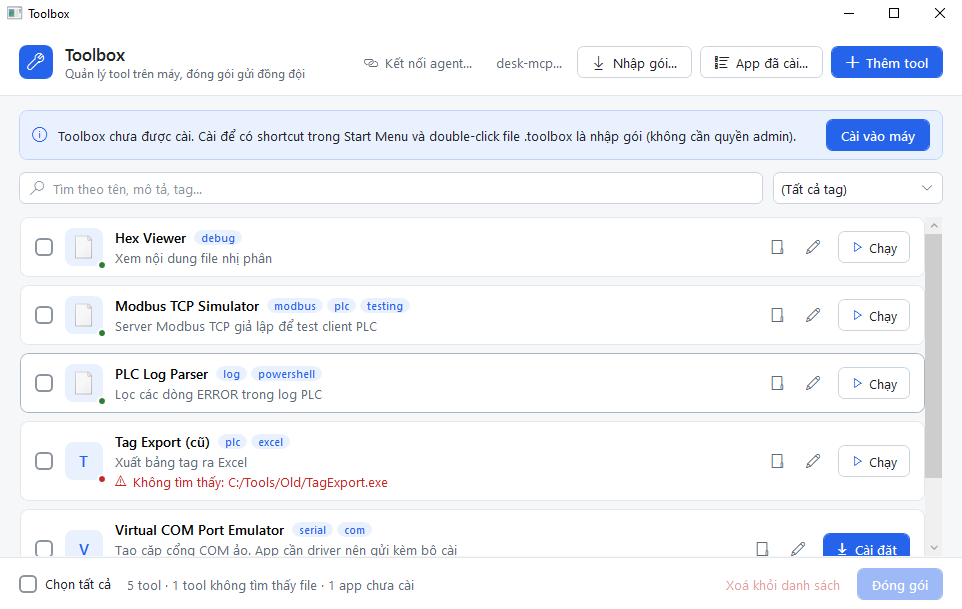
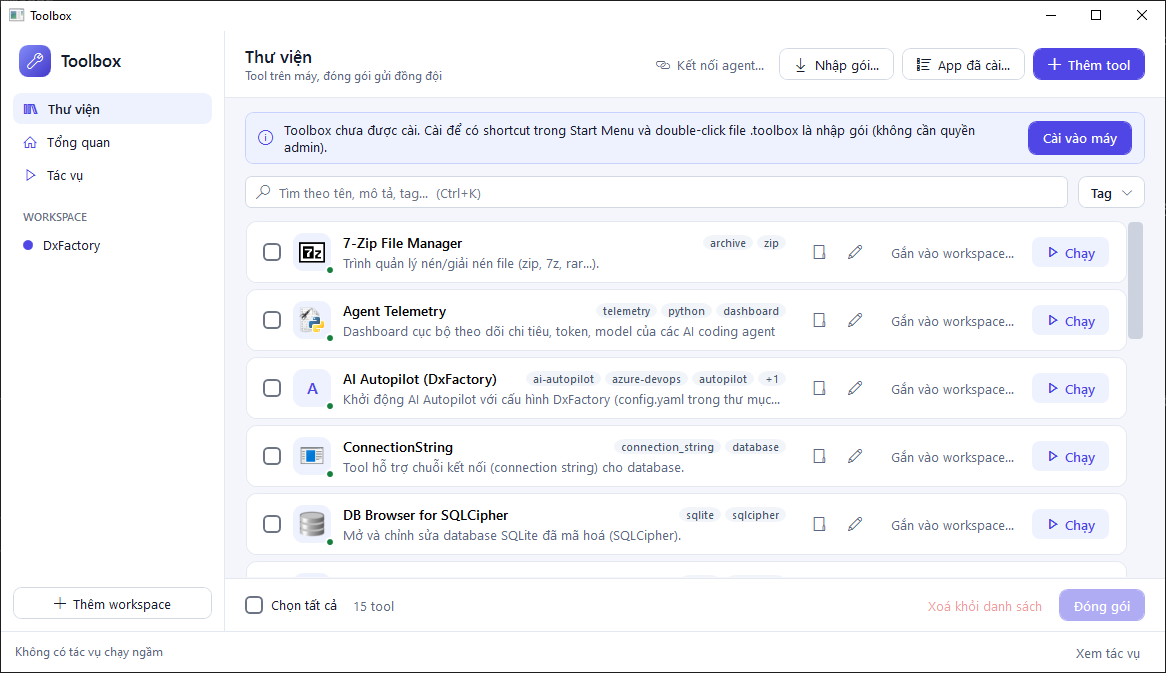
docs: update README with workspace and screenshots
- Document workspaces, workspace MCP tools and data files
- Refresh the main-window screenshot; add workspace and overview
- Correct the test count and exe size; note untested GUI flows

diff --git a/README.md b/README.md
@@ -10,7 +10,7 @@
 
 Tool thường nằm rải rác: phần mềm trong `Program Files`, bản tải về trong `Downloads`, script do agent tạo. Bạn phải nhớ đường dẫn mới dùng được, và gửi cho đồng đội thì rất phiền. Toolbox gom tất cả vào một danh sách. Toolbox không sửa file gốc của tool, và không bao giờ xoá file gốc. Xoá một tool khỏi danh sách chỉ là xoá một dòng trong `tools.json`.
 
-Toolbox là một file `Toolbox.exe` khoảng 150 KB, viết bằng WPF trên .NET Framework 4.8 có sẵn trong Windows. Người dùng không phải cài thêm gì để chạy.
+Toolbox là một file `Toolbox.exe` khoảng 375 KB, viết bằng WPF trên .NET Framework 4.8 có sẵn trong Windows. Người dùng không phải cài thêm gì để chạy.
 
 ---
 
@@ -40,9 +40,12 @@ Toolbox là một file `Toolbox.exe` khoảng 150 KB, viết bằng WPF trên .N
 | **Nhập gói** | Bấm **Nhập gói**, kéo thả, hoặc double-click file `.toolbox`. Chọn tool cần nhập, xử lý trùng `id` (thay thế, giữ cả hai, hoặc bỏ qua). |
 | | Chặn file có đường dẫn thoát ra ngoài thư mục đích (zip-slip). Cảnh báo khi gói chứa `.exe` hoặc script. |
 | **Bộ cài** | Gửi kèm file cài đặt (`pack=setup`) cho app cần driver. Bên nhận thấy thẻ cam **Chưa cài trên máy này** và nút **Cài đặt**. Toolbox không cài ngầm: UAC và các bước cài do người dùng tự bấm. |
-| **AI agent (MCP)** | `Toolbox.exe --mcp` chạy MCP server qua stdio, không mở cửa sổ. Agent tìm, chạy, đăng ký, sửa và bỏ tool. |
+| **AI agent (MCP)** | `Toolbox.exe --mcp` chạy MCP server qua stdio, không mở cửa sổ. Agent tìm, chạy, đăng ký, sửa và bỏ tool, và điều khiển workspace (profile, bộ chạy, lệnh riêng, worktree). |
 | | Nút **Kết nối agent…** khai báo Toolbox vào Claude Code cho toàn máy hoặc từng workspace. |
-| | Nút **desk-mcp…** khai báo [desk-mcp](https://github.com/DigitalDog1/desk-mcp) (điều khiển giao diện Windows) theo cùng cách. |
+| **Workspace** | **+ Thêm workspace** và chọn một thư mục dự án. Toolbox quét `.sln`, `.git`, `angular.json`, `package.json` rồi gợi ý tool, kèm lý do bằng tiếng Việt. |
+| | Mỗi workspace có tab theo loại tool (.NET, Angular, npm, Git), tab **Lệnh riêng** và tab **Bộ chạy**. Lệnh hay dùng lưu thành **profile** để chạy lại đúng tham số và cổng. |
+| | Tác vụ chạy **ngầm**: ẩn cửa sổ, ghi log, tự bắt cổng từ output. Tab **Tổng quan** và **Tác vụ** cho biết đang chạy gì; có **Xem log**, **Dừng**, **Chạy lại**. |
+| | **Worktree…** tạo worktree mới, đưa các file local không commit (lockfile, file môi trường) vào và chạy lệnh cài đặt. |
 | **Cài vào máy** | Không cần quyền admin. Copy vào `%LOCALAPPDATA%\Programs\Toolbox`, tạo shortcut Start Menu, gắn đuôi `.toolbox`. |
 | **An toàn dữ liệu** | Sao lưu `tools.json` trước mỗi lần thay đổi danh sách (giữ 50 bản mới nhất). Ghi nhật ký `changes.log` gồm nguồn (GUI hoặc MCP). Mọi lần ghi giữ mutex để không ghi chồng nhau. |
 
@@ -55,7 +58,7 @@ Toolbox là một file `Toolbox.exe` khoảng 150 KB, viết bằng WPF trên .N
 ### Yêu cầu
 
 - **Để chạy:** Windows 10 bản 1903 trở lên hoặc Windows 11. Không cần cài thêm gì.
-- **Tuỳ chọn:** Node.js 20 trở lên trên `PATH` nếu muốn dùng desk-mcp. PowerShell 7 (`pwsh`) hoặc Windows PowerShell nếu chạy file `.ps1`.
+- **Tuỳ chọn:** PowerShell 7 (`pwsh`) hoặc Windows PowerShell nếu chạy file `.ps1`.
 - **Để build:** .NET SDK (đã build và test với .NET SDK 10.0.401) và .NET Framework 4.8 targeting pack.
 
 ### Build
@@ -78,7 +81,7 @@ dotnet build src/Toolbox/Toolbox.csproj -c Release
 dotnet test tests/Toolbox.Tests/Toolbox.Tests.csproj
 ```
 
-Bộ test xUnit gồm 94 test, bao phủ đóng gói, chạy tool, MCP server, thư viện, cài đặt, shortcut và kết nối Claude Code. Test dùng thư mục tạm, không dùng `%APPDATA%\Toolbox`.
+Bộ test xUnit gồm 221 test, bao phủ đóng gói, chạy tool, MCP server, workspace (phát hiện, cổng, bộ chạy, worktree), thư viện, cài đặt, shortcut và kết nối Claude Code. Test dùng thư mục tạm, không dùng `%APPDATA%\Toolbox`.
 
 ## Sử dụng
 
@@ -112,6 +115,16 @@ Chế độ `pack` quyết định gói chứa gì:
 ### Chạy tool
 
 Double-click hoặc bấm ▶. Nút **📁** mở thư mục chứa tool. Tham số mặc định (`args`) được dùng mỗi khi chạy, trừ khi agent truyền `args` khác qua MCP.
+
+### Workspace
+
+Workspace là một thư mục dự án, ví dụ repo Angular hoặc solution .NET. Bấm **+ Thêm workspace** ở cột trái, chọn thư mục, rồi nhận tool gợi ý hoặc bấm **+ Thêm tool** để gắn thêm. Mỗi lệnh có thể bấm **Lưu profile** để giữ lại cách chạy hiện tại, kèm tham số và cổng.
+
+![Workspace với tab Angular: lệnh chạy dev, build và test](docs/images/workspace.png)
+
+Tab **Bộ chạy** gom nhiều lệnh thành một chuỗi, ví dụ bật API, chờ cổng mở, rồi mới bật web. Tab **Tổng quan** tóm tắt các workspace, số tác vụ đang chạy, cổng đang dùng và hoạt động gần đây.
+
+![Tổng quan: số workspace, tác vụ đang chạy, cổng đang dùng và hoạt động gần đây](docs/images/overview.png)
 
 ## Kết nối AI agent (MCP)
 
@@ -152,7 +165,22 @@ Claude Desktop, Cursor và VS Code/Copilot được khai báo tay. Cửa sổ **
 
 Quy tắc chọn kiểu lưu và chế độ đóng gói khi `register_tool` nằm trong [Dữ liệu và sao lưu](#dữ-liệu-và-sao-lưu).
 
-> **Lưu ý bảo mật:** danh sách không phải allowlist bảo mật. Agent có thể đăng ký, sửa, bỏ và chạy mọi tool đã đăng ký. Các rào thay thế là: mọi thay đổi đều được sao lưu và ghi nhật ký, và client như Claude Code vẫn hỏi quyền trước mỗi lần gọi MCP tool theo cấu hình của bạn.
+### Công cụ workspace
+
+| Tool | Làm gì |
+|---|---|
+| `list_setup` | Xem cấu hình chạy của workspace: tool và lệnh (action, biến thể, tham số), profile, bộ chạy, lệnh riêng. |
+| `run_profile` | Chạy một profile đã đặt tên, đúng tham số đã lưu. `waitReady=true`: chờ cổng của profile nghe được rồi mới báo xong. |
+| `run_custom` | Chạy một lệnh riêng của workspace. Muốn chờ cổng thì truyền port và `waitReady=true`. |
+| `run_stack` | Chạy một bộ chạy: các bước theo thứ tự, mỗi bước chờ theo cấu hình của bước (cổng hoặc thoát). |
+| `run_action` | Chạy một lệnh của tool trong workspace với tham số tuỳ ý, không cần profile. |
+| `run_status` | Trạng thái một lần chạy hoặc một tác vụ: running, done, failed, stopped, exitCode, cổng và vài dòng log gần nhất. |
+| `run_stop` | Dừng một lần chạy, hoặc một tác vụ do phiên MCP này khởi chạy. Tác vụ của phiên cũng dừng khi phiên kết thúc. |
+| `prepare_worktree` | Tạo worktree mới của workspace và đưa file local (không commit) vào đó. |
+| `create_*`, `update_*`, `delete_*` | Tạo, sửa, xoá profile, lệnh riêng và bộ chạy. `delete_custom` từ chối nếu bộ chạy còn dùng lệnh đó. |
+| `set_worktree` | Cấu hình file local đưa vào worktree và lệnh cài đặt (`files=[]` hoặc `command=""` để xoá). |
+
+> **Lưu ý bảo mật:** danh sách không phải allowlist bảo mật. Agent có thể đăng ký, sửa, bỏ và chạy mọi tool đã đăng ký. `create_custom` cho agent lưu một dòng lệnh shell tuỳ ý vào workspace, và `run_custom` chạy dòng lệnh đó với quyền của bạn. Các rào thay thế là: mọi thay đổi đều được sao lưu và ghi nhật ký, và client như Claude Code vẫn hỏi quyền trước mỗi lần gọi MCP tool theo cấu hình của bạn.
 
 ## Dữ liệu và sao lưu
 
@@ -163,6 +191,8 @@ tools.json                  # danh sách tool
 library\<id>\…              # bản chép của tool có store=copy; setup\ nếu có bộ cài
 backup\tools-<thời điểm>.json   # bản trước mỗi lần thay đổi danh sách, giữ 50 bản mới nhất
 changes.log                 # mỗi thay đổi một dòng: thời gian, nguồn (gui/mcp), thao tác, id, tên
+workspaces.json             # workspace: tool gắn vào, profile, lệnh riêng, bộ chạy, cấu hình worktree
+runs\<taskId>.log           # log của tác vụ chạy ngầm, giữ tối đa 200 file mới nhất
 ```
 
 Ví dụ một mục trong `tools.json`:
@@ -207,8 +237,12 @@ src/Toolbox/                 # Toolbox.exe (WPF, net48)
   Core/                      # ToolEntry, ToolStore, Packer, PackageImporter, Runner, ToolDefaults, ClaudeCode
   Core/AgentTools.cs         # đăng ký, sửa, bỏ tool cho agent và quy tắc chọn store/pack
   Core/Library.cs            # ngưỡng dung lượng, chép vào thư viện, fingerprint
+  Core/Workspaces/           # Workspace, WorkspaceStore, ToolCatalog, WorkspaceDetector, TaskHost, StackRunner, WorktreePreparer
   Mcp/McpServer.cs           # JSON-RPC qua stdio
-  *.xaml                     # MainWindow, ToolEditWindow, ImportWindow, AgentWindow, AppPickerWindow…
+  Mcp/McpServer.Setup.cs     # công cụ workspace: run_profile, run_stack, prepare_worktree…
+  Mcp/SessionRuns.cs         # tác vụ do phiên MCP khởi chạy, dừng khi phiên kết thúc
+  Views/                     # LibraryView, WorkspaceView, OverviewView, TasksView…
+  *.xaml                     # MainWindow, ToolEditWindow, ImportWindow, AgentWindow, WorktreeSetupWindow…
 tests/Toolbox.Tests/         # xUnit, tham chiếu trực tiếp project Toolbox
 docs/
   design.md                  # thiết kế chi tiết và tiến độ (tiếng Việt)
@@ -219,7 +253,8 @@ Có một project duy nhất để build ra đúng một file exe, và test tham
 
 ## Giới hạn đã biết
 
-- **Cần sửa trước khi phát hành:** cửa sổ GUI giữ danh sách trong bộ nhớ, nên có thể ghi đè thay đổi mà agent vừa làm. Cách sửa là nạp lại `tools.json` trước mỗi thao tác ghi.
+- **Cần sửa trước khi phát hành:** cửa sổ GUI giữ danh sách tool và workspace trong bộ nhớ, nên có thể ghi đè thay đổi mà agent vừa làm. Cách sửa là nạp lại `tools.json` và `workspaces.json` trước mỗi thao tác ghi.
+- Cửa sổ **Worktree…** và việc tạo, sửa, xoá workspace, profile, lệnh riêng, bộ chạy trên GUI mới được kiểm bằng test tự động, chưa thử tay đầy đủ trên màn hình.
 - Chưa có theo dõi file (`FileSystemWatcher`), nên GUI không tự cập nhật khi agent thay đổi danh sách.
 - Chưa có tab Lịch sử trên GUI. Xem thay đổi của agent ở `changes.log`.
 - Chưa tìm lại tool khi `path` bị mất bằng `fingerprint`. Hiện `fingerprint` chỉ dùng để nhận ra file đã đăng ký.
@@ -231,7 +266,6 @@ Tiến độ chi tiết và các bước đã xong nằm ở [docs/design.md](do
 ## Tài liệu liên quan
 
 - [docs/design.md](docs/design.md): thiết kế, định dạng dữ liệu, quy tắc đăng ký và tiến độ.
-- [desk-mcp](https://github.com/DigitalDog1/desk-mcp): MCP server điều khiển giao diện Windows. Toolbox chỉ khai báo kết nối, không cài gói trước. Cần Node.js 20 trở lên trên `PATH`.
 
 ## Giấy phép
 

diff --git a/docs/design.md b/docs/design.md
@@ -111,8 +111,8 @@ Trước khi lưu, Toolbox hiện tổng dung lượng và danh sách thư mục
 **Agent (MCP):** `Toolbox.exe --mcp` chạy MCP server qua stdio, không mở cửa sổ. Nút **Kết nối agent…** kết nối vào Claude Code bằng một nút:
 - **Toàn bộ máy** (scope `user`) hoặc từng **workspace Claude Code** (scope `local`, riêng cho người dùng, không ghi `.mcp.json` vào repo). Danh sách workspace lấy từ `projects` trong `~/.claude.json` (gộp các cách viết `C:/a`, `c:/a`, bỏ thư mục không còn); thư mục chưa có trong danh sách thì bấm **Thư mục khác…**.
 - Mỗi dòng có trạng thái *Chưa kết nối / Đã kết nối / Trỏ tới exe khác* và nút **Kết nối**, **Kết nối lại**, **Huỷ kết nối**. Toolbox chỉ đọc `~/.claude.json`; ghi thì gọi `claude mcp add/remove` (Claude Code tự quản file này). Máy không có CLI `claude` thì báo lỗi kèm lệnh để tự chạy.
+- **Phạm vi agent:** `Toolbox.exe --mcp` (toàn máy) quản lý mọi tool. `Toolbox.exe --mcp --workspace <id>` chỉ thấy và quản lý tool đã gắn vào workspace đó; workspace phải đã đăng ký trong Toolbox. `register_tool` trong workspace tạo tool rồi gắn luôn vào workspace; `unregister_tool` trong workspace chỉ gỡ khỏi workspace. Tool thư viện gắn vào workspace là tham chiếu theo Id (mục `libraryBindings` trong `workspaces.json`), không copy; xoá khỏi thư viện thì gỡ khỏi mọi workspace.
 - Đang chạy bản tải về (chưa cài) thì hỏi cài vào máy trước, để agent không mất kết nối khi file bị xoá hoặc di chuyển.
-- **desk-mcp…** (nút riêng ngoài cửa sổ chính): khai báo [desk-mcp](https://github.com/DigitalDog1/desk-mcp) (điều khiển giao diện Windows) vào Claude Code theo cùng cách: toàn máy hoặc từng workspace, và **Gỡ cài**. Lệnh khởi chạy là `cmd /c npx -y desk-mcp`, cần Node.js 20+ trên PATH; Toolbox không cài gói trước, npx tải khi agent khởi động server. Không có scope ghi vào repo.
 - Claude Desktop/Cursor và VS Code/Copilot vẫn khai báo tay: mỗi client một khối JSON với nút Copy riêng.
 
 | MCP tool | Làm gì |
